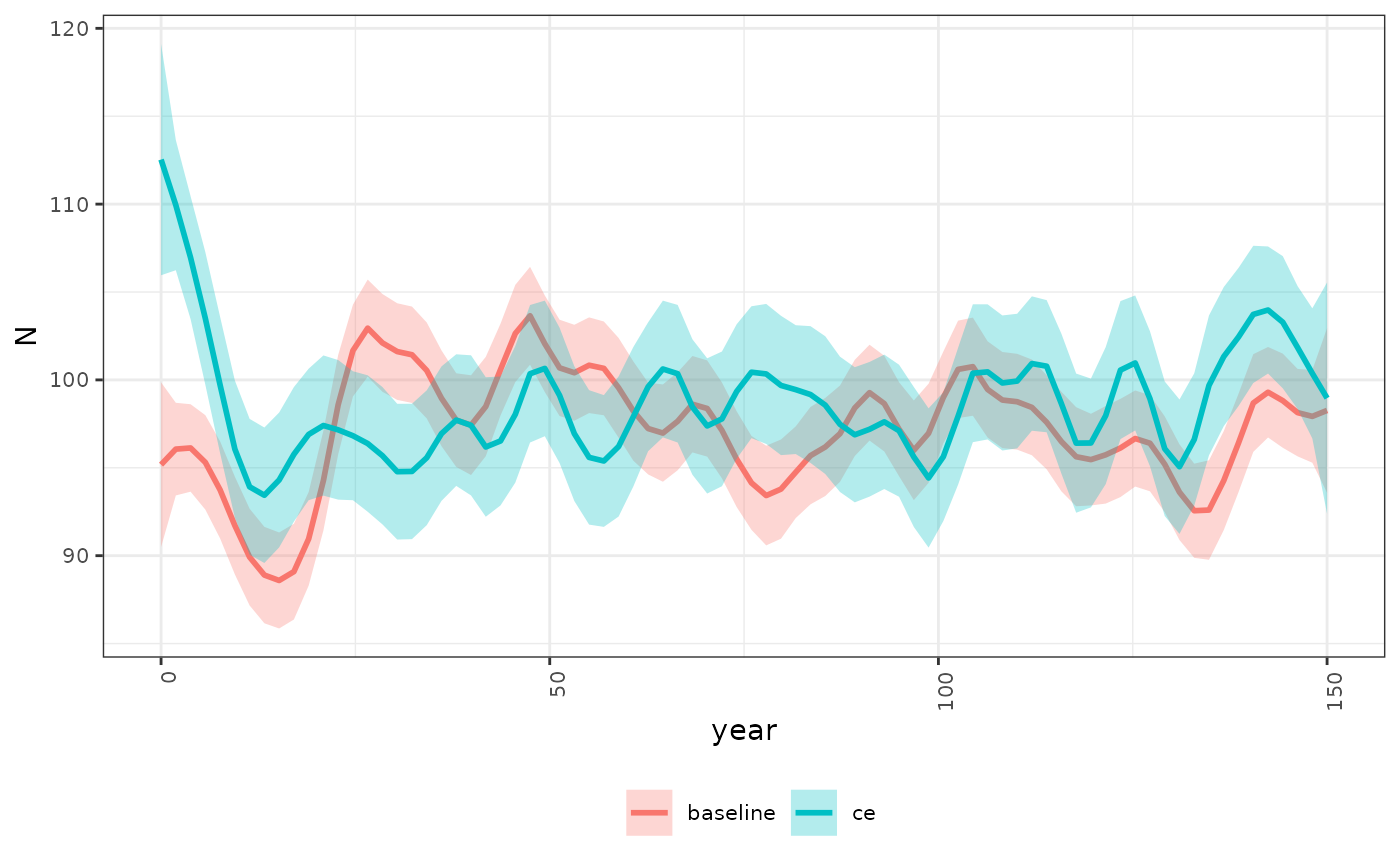
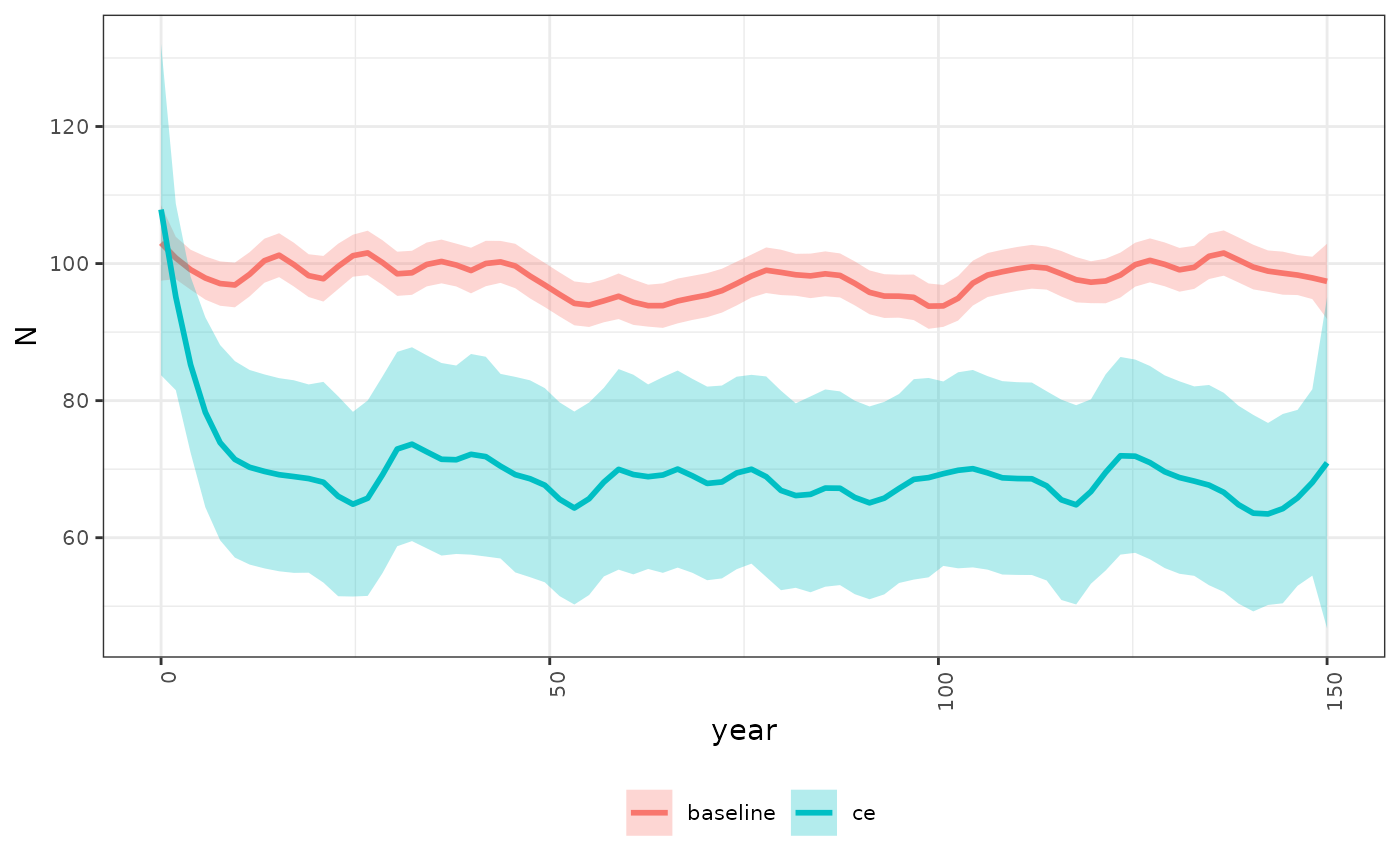
Deploying to gh-pages from @ essatech/JoeModelCE@8370649eeca5108366fbb27ea5a712744d7d0d37 🚀

diff --git a/articles/a04-population-model-batch-run.html b/articles/a04-population-model-batch-run.html
@@ -163,19 +163,19 @@ variables “ce” or baseline reference conditions “baseline”.</p>
 <span>    <span class="co"># Review output</span></span>
 <span>    <span class="fu"><a href="https://rdrr.io/r/utils/head.html" class="external-link">head</a></span><span class="op">(</span><span class="va">data</span>, <span class="fl">3</span><span class="op">)</span></span>
 <span><span class="co">#&gt;   year        N MC_sim group</span></span>
-<span><span class="co">#&gt; 1    0 127.5333      1    ce</span></span>
-<span><span class="co">#&gt; 2    1 120.1264      1    ce</span></span>
-<span><span class="co">#&gt; 3    2 115.2871      1    ce</span></span>
+<span><span class="co">#&gt; 1    0 35.45070      1    ce</span></span>
+<span><span class="co">#&gt; 2    1 32.13339      1    ce</span></span>
+<span><span class="co">#&gt; 3    2 30.05433      1    ce</span></span>
 <span></span>
 <span>    <span class="co"># Look the median adult abundance</span></span>
 <span>    </span>
 <span>    <span class="co"># with stressor variables (cumulative effects)</span></span>
 <span>    <span class="fu"><a href="https://rdrr.io/r/stats/median.html" class="external-link">median</a></span><span class="op">(</span><span class="va">data</span><span class="op">$</span><span class="va">N</span><span class="op">[</span><span class="fu"><a href="https://rdrr.io/r/base/which.html" class="external-link">which</a></span><span class="op">(</span><span class="va">data</span><span class="op">$</span><span class="va">group</span> <span class="op">==</span> <span class="st">"ce"</span><span class="op">)</span><span class="op">]</span>, na.rm <span class="op">=</span> <span class="cn">TRUE</span><span class="op">)</span></span>
-<span><span class="co">#&gt; [1] 98.26077</span></span>
+<span><span class="co">#&gt; [1] 90.15484</span></span>
 <span>    </span>
 <span>    <span class="co"># and without stressor variables (baseline status quo)</span></span>
 <span>    <span class="fu"><a href="https://rdrr.io/r/stats/median.html" class="external-link">median</a></span><span class="op">(</span><span class="va">data</span><span class="op">$</span><span class="va">N</span><span class="op">[</span><span class="fu"><a href="https://rdrr.io/r/base/which.html" class="external-link">which</a></span><span class="op">(</span><span class="va">data</span><span class="op">$</span><span class="va">group</span> <span class="op">==</span> <span class="st">"baseline"</span><span class="op">)</span><span class="op">]</span>, na.rm <span class="op">=</span> <span class="cn">TRUE</span><span class="op">)</span></span>
-<span><span class="co">#&gt; [1] 97.4774</span></span></code></pre></div>
+<span><span class="co">#&gt; [1] 97.65462</span></span></code></pre></div>
 </div>
 <div class="section level2">
 <h2 id="visualize-the-time-series-projections">Visualize the Time Series Projections<a class="anchor" aria-label="anchor" href="#visualize-the-time-series-projections"></a>

diff --git a/articles/a03-population-model.html b/articles/a03-population-model.html
@@ -313,7 +313,7 @@ stressors are included.</p>
 <span><span class="va">baseline_sys_cap</span> <span class="op">&lt;-</span> <span class="fu">stats</span><span class="fu">::</span><span class="fu"><a href="https://rdrr.io/r/stats/median.html" class="external-link">median</a></span><span class="op">(</span><span class="va">baseline</span><span class="op">$</span><span class="va">pop</span><span class="op">$</span><span class="va">N</span><span class="op">[</span><span class="fl">50</span><span class="op">:</span><span class="fl">100</span><span class="op">]</span><span class="op">)</span></span>
 <span><span class="va">ce_sys_cap</span> <span class="op">&lt;-</span> <span class="fu">stats</span><span class="fu">::</span><span class="fu"><a href="https://rdrr.io/r/stats/median.html" class="external-link">median</a></span><span class="op">(</span><span class="va">ce_pop</span><span class="op">$</span><span class="va">pop</span><span class="op">$</span><span class="va">N</span><span class="op">[</span><span class="fl">50</span><span class="op">:</span><span class="fl">100</span><span class="op">]</span><span class="op">)</span></span>
 <span><span class="va">ce_sys_cap</span> <span class="op">/</span> <span class="va">baseline_sys_cap</span></span>
-<span><span class="co">#&gt; [1] 0.6857404</span></span></code></pre></div>
+<span><span class="co">#&gt; [1] 0.6853199</span></span></code></pre></div>
 </div>
 
   </main><aside class="col-md-3"><nav id="toc"><h2>On this page</h2>
